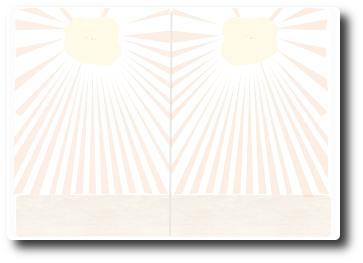
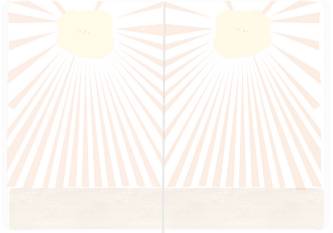
touched up passport image and used transparent background

diff --git a/test_client/example/3D/client.css b/test_client/example/3D/client.css
@@ -7,7 +7,8 @@ body {
   font-size: 1em;
   font-weight: normal;
   line-height: 1.2em;
-  margin: 0em 0.25em;
+  margin: 0em 0.0em;
+  padding: 0;
 }
 
 p {
@@ -29,8 +30,12 @@ p .smallerLeft {
   font-size: smaller;
   text-align: left;
 }
-
+h1 {
+  margin: 0.25em;
+  text-align: center;
+}
 h4 {
+  margin: 0.25em;
   text-align: center;
 }
 
@@ -117,10 +122,10 @@ li list-style {
 
 /* common css for all slides */
 .slide {
-  width: 90%;
+  width: 80%;
   height: 26em;
-  border: 0.3em solid #999;
-  background-color: rgba(255, 255, 255, 0.7);;
+  border: 0.3em solid #FFF;
+  background-color: rgba(255, 255, 255, 0.85);
   margin: 0;
   
   padding: 1em;
@@ -164,9 +169,11 @@ li list-style {
 
 .summary
 {
-  width: 100%;
+/*
+  width: 95%;
   height: 50%;
   height: 26em;
+  */
 }
 /*
 .summary p
@@ -189,11 +196,14 @@ li list-style {
 }
 
 .passportImage {
-  height: 100%;
-  width: 100%;
   position: absolute;
-  left: 0;
-  top: 0;
+  height: 94%;
+  width: 94%;
+  left: 2%;
+  top: 2%;
+  background-color: none;
+  /* shadow doesn't appear under transparency! */
+  /*box-shadow: 0.9em 0.9em 0.9em rgba(0,0,0,0.3);*/
   text-align:center;
 }
 
@@ -229,6 +239,7 @@ li list-style {
   padding: 1em;
   display: block;
   position: absolute;
+  
   /*
   bottom: 1em;
   */
